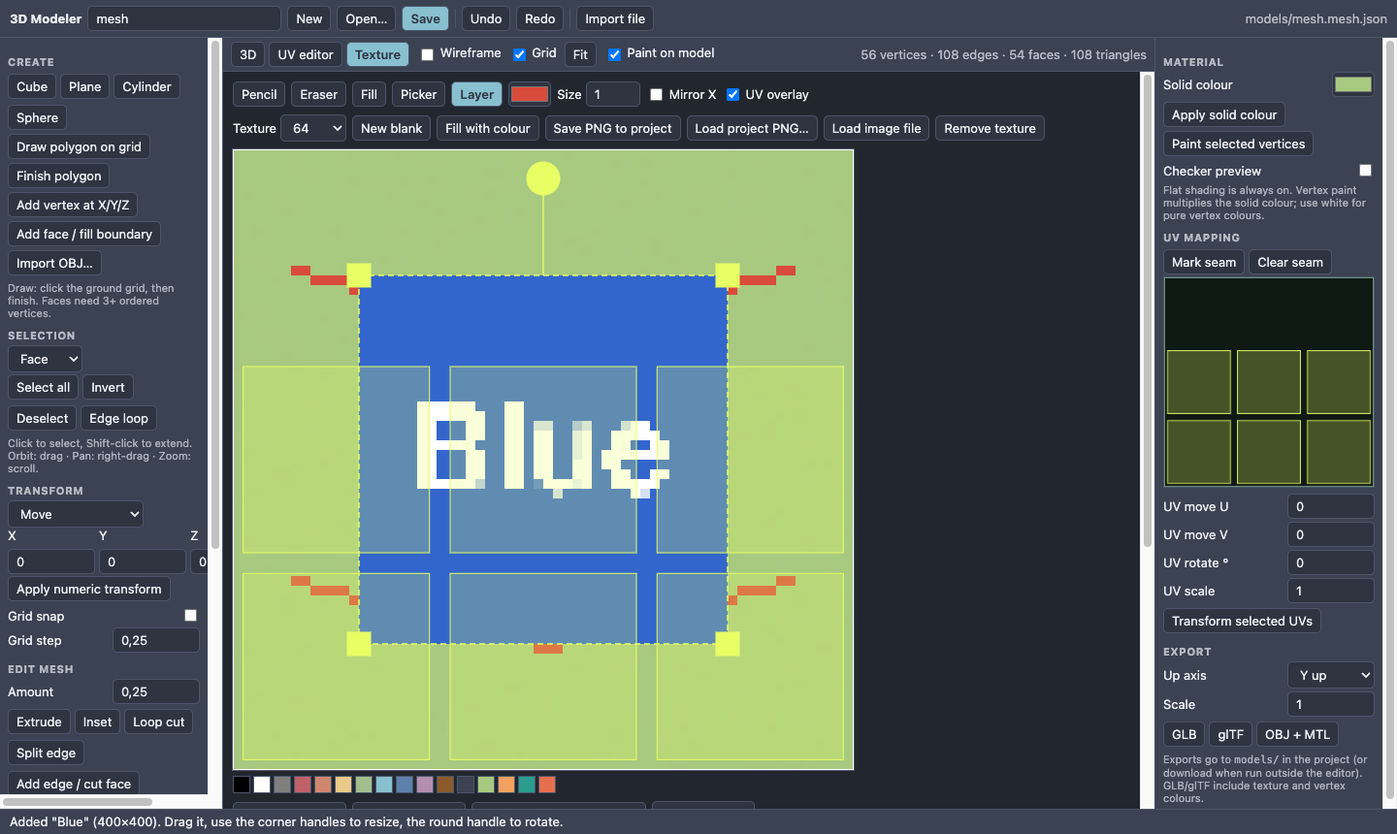
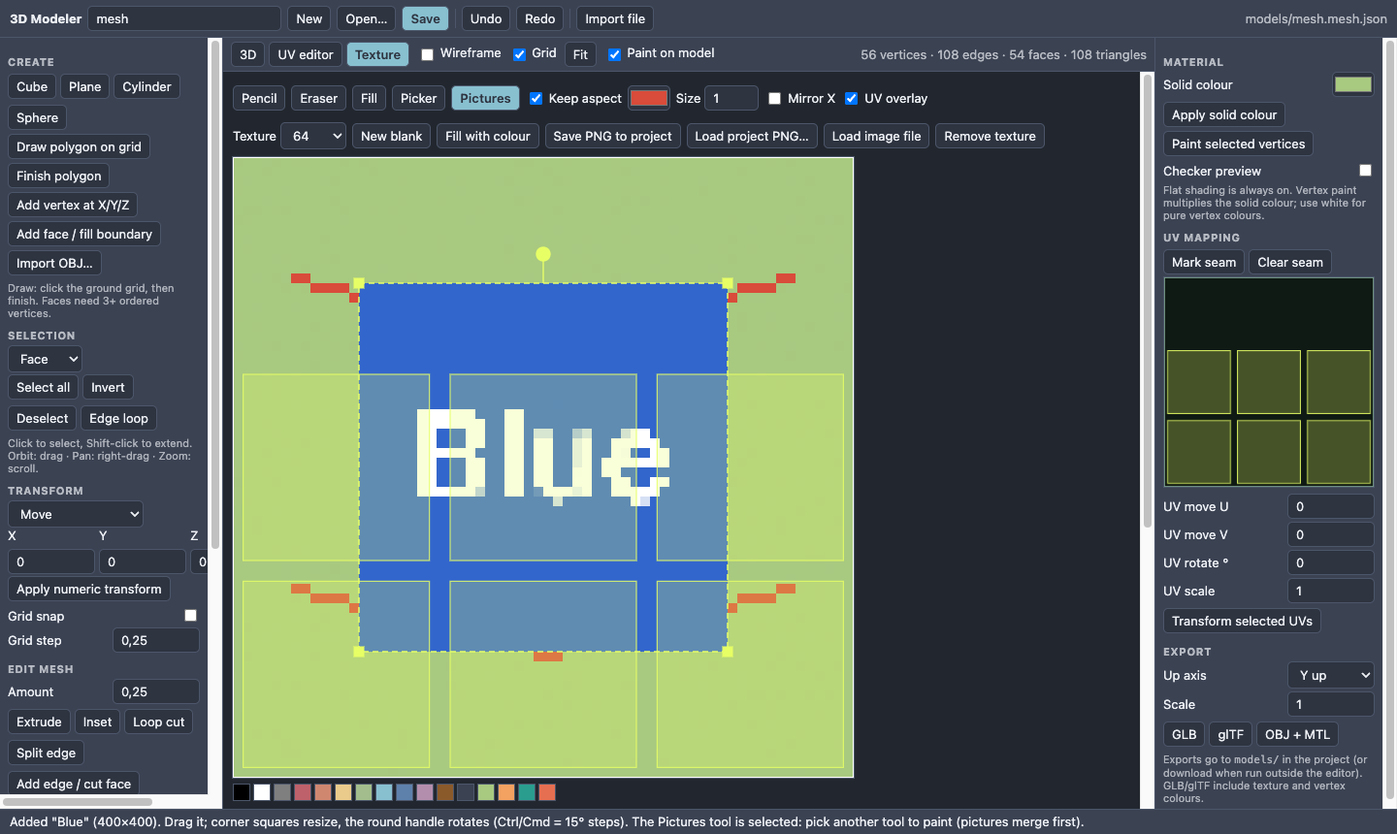
Modeler pictures: correct handles on non-square textures, working resize/rotate, keep-aspect toggle, rotation snaps (Ctrl/Cmd 15, Shift 45, Alt 1), Pictures tool auto-selected, stacking controls (up/down, front/back, Alt+click, shortcuts); docs

diff --git a/editor/modeler/layers.js b/editor/modeler/layers.js
@@ -43,28 +43,33 @@ export function initLayers(api) {
     if (!base) base = copyCanvas(texCanvas);
     const fit = Math.min(1, (texCanvas.width * 0.6) / src.width, (texCanvas.height * 0.6) / src.height), w = Math.max(1, Math.round(src.width * fit)), h = Math.max(1, Math.round(src.height * fit));
     const l = { id: seq++, name, src, cx: texCanvas.width / 2, cy: texCanvas.height / 2, w, h, rot: 0, fx: false, fy: false, alpha: 1, vis: true, smooth: false, cl: 0, ct: 0, cr: 0, cb: 0 };
-    layers.push(l); sel = l.id; compose(); renderPanel();
-    api.status(`Added "${name}" (${src.width}×${src.height}${src.width !== bmp.width ? `, shrunk from ${bmp.width}×${bmp.height}` : ''}). Drag it, use the corner handles to resize, the round handle to rotate.`);
+    layers.push(l); sel = l.id; api.selectTool(); compose(); renderPanel();
+    api.status(`Added "${name}" (${src.width}×${src.height}${src.width !== bmp.width ? `, shrunk from ${bmp.width}×${bmp.height}` : ''}). Drag it; corner squares resize, the round handle rotates (Ctrl/Cmd = 15° steps). The Pictures tool is selected: pick another tool to paint (pictures merge first).`);
   }
   async function addFiles(files) { for (const f of files) { if (!/^image\//.test(f.type)) continue; if (f.size > 12 * 1024 * 1024) throw Error(`${f.name}: pictures over 12 MB are not accepted.`); await addImage(f, f.name.replace(/\.[^.]+$/, '')); } }
 
   // ---------- geometry ----------
   const toLocal = (l, x, y) => { const a = (-l.rot * Math.PI) / 180, dx = x - l.cx, dy = y - l.cy; let lx = dx * Math.cos(a) - dy * Math.sin(a), ly = dx * Math.sin(a) + dy * Math.cos(a); return [lx, ly]; };
   const hit = (l, x, y) => { const [lx, ly] = toLocal(l, x, y); return Math.abs(lx) <= l.w / 2 && Math.abs(ly) <= l.h / 2; };
-  const handleR = () => Math.max(2.5, texCanvas.width / 64);
+  // handles are ~11 px on screen: convert to texture pixels (the view is about 640 px wide)
+  const scr = () => texCanvas.getBoundingClientRect().width || 640, handleR = () => (11 / scr()) * texCanvas.width, rotOffset = () => (30 / (texCanvas.getBoundingClientRect().height || 400)) * texCanvas.height;
   function handleAt(l, x, y) {
-    const [lx, ly] = toLocal(l, x, y), r = handleR() * 1.6;
-    const rotY = -l.h / 2 - handleR() * 4;
-    if (Math.hypot(lx, ly - rotY) <= r) return 'rot';
-    for (const [sx, sy, n] of [[-1, -1, 'tl'], [1, -1, 'tr'], [1, 1, 'br'], [-1, 1, 'bl']]) if (Math.hypot(lx - (sx * l.w) / 2, ly - (sy * l.h) / 2) <= r) return n;
+    const [lx, ly] = toLocal(l, x, y), rx = handleR() * 1.3, ry = (handleR() * texCanvas.height) / texCanvas.width * 1.3;
+    if (Math.abs(lx) <= rx && Math.abs(ly - (-l.h / 2 - rotOffset())) <= ry * 1.2) return 'rot';
+    for (const [sx, sy, n] of [[-1, -1, 'tl'], [1, -1, 'tr'], [1, 1, 'br'], [-1, 1, 'bl']]) if (Math.abs(lx - (sx * l.w) / 2) <= rx && Math.abs(ly - (sy * l.h) / 2) <= ry) return n;
     return null;
   }
+  // Keep aspect (toolbar checkbox); holding Shift while resizing flips it for that drag
+  const lockOn = (e) => !!root.querySelector('#layerlock')?.checked !== !!e?.shiftKey;
   const pos = (e) => { const r = texCanvas.getBoundingClientRect(); return [((e.clientX - r.left) / r.width) * texCanvas.width, ((e.clientY - r.top) / r.height) * texCanvas.height]; };
 
   // ---------- pointer (called by the texture view when the Layer tool is active) ----------
   function pointerDown(e) {
     const [x, y] = pos(e); let l = cur(), h = l ? handleAt(l, x, y) : null;
-    if (!h) { l = [...layers].reverse().find((q) => q.vis && hit(q, x, y)) ?? null; sel = l?.id ?? null; renderPanel(); drawUi(); if (!l) return false; }
+    if (!h) {
+      // topmost picture under the cursor; Alt+click picks the next one underneath (cycles through overlapping pictures)
+      const under = [...layers].reverse().filter((q) => q.vis && hit(q, x, y)); const at = under.findIndex((q) => q.id === sel);
+      l = (e.altKey && at >= 0 ? under[(at + 1) % under.length] : under[0]) ?? null; sel = l?.id ?? null; renderPanel(); drawUi(); if (!l) return false; }
     api.checkpoint();
     drag = { mode: h ?? 'move', l, x0: x, y0: y, cx: l.cx, cy: l.cy, w: l.w, h: l.h, rot: l.rot, d0: Math.hypot(x - l.cx, y - l.cy) || 1, shift: e.shiftKey };
     return true;
@@ -73,8 +78,12 @@ export function initLayers(api) {
     if (!drag) { const [x, y] = pos(e), l = cur(); texCanvas.style.cursor = l && handleAt(l, x, y) ? 'nwse-resize' : [...layers].some((q) => q.vis && hit(q, x, y)) ? 'move' : 'default'; return; }
     const [x, y] = pos(e), l = drag.l;
     if (drag.mode === 'move') { l.cx = Math.round((drag.cx + x - drag.x0) * 2) / 2; l.cy = Math.round((drag.cy + y - drag.y0) * 2) / 2; }
-    else if (drag.mode === 'rot') { let a = (Math.atan2(y - l.cy, x - l.cx) * 180) / Math.PI + 90; if (e.shiftKey) a = Math.round(a / 15) * 15; l.rot = Math.round(a * 10) / 10; }
-    else if (e.shiftKey) { const [lx, ly] = toLocal(l, x, y); l.w = Math.max(1, Math.round(Math.abs(lx) * 2)); l.h = Math.max(1, Math.round(Math.abs(ly) * 2)); } // Shift = free stretch
+    else if (drag.mode === 'rot') {
+      // angle in the stretched view so it follows the mouse exactly; Ctrl/Cmd = 15° steps, Shift = 45°, Alt = 1°
+      const kx = texCanvas.width, ky = texCanvas.height; let a = (Math.atan2((y - l.cy) / ky, (x - l.cx) / kx) * 180) / Math.PI + 90;
+      const st = e.ctrlKey || e.metaKey ? 15 : e.shiftKey ? 45 : e.altKey ? 1 : 0; if (st) a = Math.round(a / st) * st; l.rot = Math.round(a * 10) / 10;
+    }
+    else if (!lockOn(e)) { const [lx, ly] = toLocal(l, x, y); l.w = Math.max(1, Math.round(Math.abs(lx) * 2)); l.h = Math.max(1, Math.round(Math.abs(ly) * 2)); } // free stretch
     else { const k = Math.max(0.02, Math.hypot(x - l.cx, y - l.cy) / drag.d0); l.w = Math.max(1, Math.round(drag.w * k)); l.h = Math.max(1, Math.round(drag.h * k)); }
     compose(); syncProps();
   }
@@ -87,6 +96,7 @@ export function initLayers(api) {
     const step = e.shiftKey ? 8 : 1;
     if (e.key === 'Delete' || e.key === 'Backspace') { e.preventDefault(); remove(); }
     else if ((e.ctrlKey || e.metaKey) && e.key.toLowerCase() === 'd') { e.preventDefault(); duplicate(); }
+    else if ((e.ctrlKey || e.metaKey) && (e.key === ']' || e.key === '[' || e.key === '}' || e.key === '{')) { e.preventDefault(); order(e.shiftKey || e.key === '}' || e.key === '{' ? (e.key === ']' || e.key === '}' ? 'front' : 'back') : e.key === ']' ? 1 : -1); api.commit(); }
     else if (e.key.startsWith('Arrow')) { e.preventDefault(); l.cx += { ArrowLeft: -step, ArrowRight: step }[e.key] ?? 0; l.cy += { ArrowUp: -step, ArrowDown: step }[e.key] ?? 0; compose(); syncProps(); api.commit(); }
   });
 
@@ -102,10 +112,11 @@ export function initLayers(api) {
 
   /** Resize the whole texture; base pixels and layers scale with it. */
   function resizeTexture(size) {
-    if (size === texCanvas.width) return; api.checkpoint(); api.ensureTexture(); const k = size / texCanvas.width, old = base ?? copyCanvas(texCanvas);
+    if (size === texCanvas.width && size === texCanvas.height) return; api.checkpoint(); api.ensureTexture();
+    const kx = size / texCanvas.width, ky = size / texCanvas.height, old = base ?? copyCanvas(texCanvas);
     texCanvas.width = size; texCanvas.height = size; tctx.imageSmoothingEnabled = false; tctx.clearRect(0, 0, size, size); tctx.drawImage(old, 0, 0, size, size);
-    if (layers.length) { base = copyCanvas(texCanvas); for (const l of layers) { l.cx *= k; l.cy *= k; l.w *= k; l.h *= k; } compose(); } else base = null;
-    api.commit(); api.status(`Texture is now ${size}×${size}.`);
+    if (layers.length) { base = copyCanvas(texCanvas); for (const l of layers) { l.cx *= kx; l.cy *= ky; l.w *= kx; l.h *= ky; } compose(); } else base = null;
+    api.commit(); renderPanel(); api.status(`Texture is now ${size}×${size}.`);
   }
   /** Reduce colours (fewer bits per channel) so the PNG compresses much better. bits: 8 = off. */
   function quantize(bits) {
@@ -118,12 +129,16 @@ export function initLayers(api) {
   function drawUi() {
     const c = over.getContext('2d'); c.clearRect(0, 0, over.width, over.height);
     const l = cur(); if (!l || !api.texViewVisible()) return;
-    const k = over.width / texCanvas.width, r = handleR() * k;
-    c.save(); c.translate(l.cx * k, l.cy * k); c.rotate((l.rot * Math.PI) / 180);
-    c.strokeStyle = '#e7ff65'; c.lineWidth = 1.5; c.setLineDash([6, 4]); c.strokeRect((-l.w / 2) * k, (-l.h / 2) * k, l.w * k, l.h * k); c.setLineDash([]);
-    c.fillStyle = '#e7ff65'; for (const [sx, sy] of [[-1, -1], [1, -1], [1, 1], [-1, 1]]) c.fillRect((sx * l.w * k) / 2 - r / 2, (sy * l.h * k) / 2 - r / 2, r, r);
-    const ry = (-l.h / 2) * k - r * 4; c.beginPath(); c.moveTo(0, (-l.h / 2) * k); c.lineTo(0, ry); c.stroke(); c.beginPath(); c.arc(0, ry, r * 0.7, 0, Math.PI * 2); c.fill();
-    c.restore();
+    // the texture is shown stretched over the square view: texture px -> overlay px with separate x / y scales
+    const kx = over.width / texCanvas.width, ky = over.height / texCanvas.height, a = (l.rot * Math.PI) / 180, ca = Math.cos(a), sa = Math.sin(a);
+    const P = (lx, ly) => [(l.cx + lx * ca - ly * sa) * kx, (l.cy + lx * sa + ly * ca) * ky];
+    const corners = [[-1, -1], [1, -1], [1, 1], [-1, 1]].map(([sx, sy]) => P((sx * l.w) / 2, (sy * l.h) / 2));
+    c.strokeStyle = '#e7ff65'; c.lineWidth = 1.5; c.setLineDash([6, 4]); c.beginPath(); corners.forEach(([x, y], i) => c[i ? 'lineTo' : 'moveTo'](x, y)); c.closePath(); c.stroke(); c.setLineDash([]);
+    c.fillStyle = '#e7ff65'; const r = 11;
+    for (const [x, y] of corners) c.fillRect(x - r / 2, y - r / 2, r, r);
+    const top = P(0, -l.h / 2), rot = P(0, -l.h / 2 - rotOffset());
+    c.beginPath(); c.moveTo(...top); c.lineTo(...rot); c.stroke(); c.beginPath(); c.arc(rot[0], rot[1], r * 0.7, 0, Math.PI * 2); c.fill();
+    if (drag?.mode === 'rot') { c.fillStyle = '#000a'; c.fillRect(rot[0] + 12, rot[1] - 10, 46, 18); c.fillStyle = '#e7ff65'; c.font = '12px monospace'; c.fillText(`${Math.round(l.rot)}°`, rot[0] + 17, rot[1] + 4); }
   }
 
   // ---------- panel ----------
@@ -132,10 +147,12 @@ export function initLayers(api) {
     const bar = el('div', { className: 'bar' }, ui);
     const add = el('button', { textContent: '+ Add pictures…', title: 'PNG, JPG or WebP; several at once. You can also drop files on the texture or paste with Ctrl/Cmd+V.' }, bar); add.onclick = () => root.querySelector('#layerfiles').click();
     const proj = el('button', { textContent: '+ From project…', title: 'Pictures of the project (models/ folder)' }, bar); proj.onclick = () => api.pickProjectPng().then((b) => b && addImage(b.blob, b.name)).catch((x) => api.status(x.message));
-    el('button', { textContent: `Merge ${layers.length || ''} layers into texture`, disabled: !layers.length, title: 'Flatten the layers into the one texture (also happens when you paint or save)' }, bar).onclick = () => bake();
+    el('button', { textContent: layers.length ? `Merge ${layers.length} layer${layers.length > 1 ? 's' : ''} into texture` : 'Merge layers', disabled: !layers.length, title: 'Flatten the layers into the one texture (also happens when you paint or save)' }, bar).onclick = () => bake();
     const size = el('select', { id: 'texsize2', title: 'Texture size: all layers are merged into this one square picture' }, bar);
-    for (const s of [16, 32, 64, 128, 256, 512, 1024]) el('option', { value: s, textContent: `${s}×${s}`, selected: s === texCanvas.width }, size);
-    size.onchange = () => resizeTexture(+size.value);
+    const sq = texCanvas.width === texCanvas.height;
+    if (!sq || ![16, 32, 64, 128, 256, 512, 1024].includes(texCanvas.width)) el('option', { value: '', textContent: `${texCanvas.width}×${texCanvas.height}${sq ? '' : ' (not square)'}`, selected: true, disabled: true }, size);
+    for (const s of [16, 32, 64, 128, 256, 512, 1024]) el('option', { value: s, textContent: sq ? `${s}×${s}` : `Make ${s}×${s}`, selected: sq && s === texCanvas.width }, size);
+    size.onchange = () => size.value && resizeTexture(+size.value);
     const comp = el('select', { id: 'texcomp', title: 'Fewer colours = smaller PNG (applied when saving)' }, bar);
     for (const [v, t] of [[8, 'Full colour'], [6, 'Compress: light (6 bit)'], [5, 'Compress: medium (5 bit)'], [4, 'Compress: strong (4 bit)']]) el('option', { value: v, textContent: t, selected: v === api.compression() }, comp);
     comp.onchange = () => api.setCompression(+comp.value);
@@ -146,15 +163,18 @@ export function initLayers(api) {
       const row = el('div', { className: 'layerrow' + (l.id === sel ? ' on' : '') }, list);
       const t = el('canvas', { width: 28, height: 28 }, row); const x = t.getContext('2d'), k = Math.min(28 / l.src.width, 28 / l.src.height); x.drawImage(l.src, 0, 0, l.src.width * k, l.src.height * k);
       el('span', { textContent: l.name }, row);
+      const mv = (t, tip, d) => { const b = el('button', { textContent: t, title: tip }, row); b.onclick = (e) => { e.stopPropagation(); sel = l.id; order(d); api.commit(); }; };
+      mv('▲', 'Bring forward (above the next picture)', 1); mv('▼', 'Send backward (below the next picture)', -1);
       const eye = el('button', { textContent: l.vis ? 'Hide' : 'Show' }, row); eye.onclick = (e) => { e.stopPropagation(); l.vis = !l.vis; compose(); renderPanel(); api.commit(); };
       row.onclick = () => { sel = l.id; renderPanel(); drawUi(); };
     });
     const l = cur(); if (!l) { api.refreshInfo(); return; }
     const p = el('div', { className: 'layerprops' }, ui);
-    const lockLb = el('label', {}, p), lock = el('input', { type: 'checkbox', checked: true }, lockLb); lockLb.append(' keep proportions');
+    const lock = root.querySelector('#layerlock');
     const field = (label, key, min, max, step = 1) => { const lb = el('label', { textContent: label + ' ' }, p); const i = el('input', { type: 'number', value: l[key], step, style: 'width:68px' }, lb); if (min !== undefined) i.min = min; if (max !== undefined) i.max = max; i.dataset.key = key; i.oninput = () => { const v = num(i.value, l[key]); if (key === 'alpha') l.alpha = Math.max(0, Math.min(1, v / 100)); else if (key === 'w' && lock.checked) { const k = Math.max(1, v) / l.w; l.w = Math.max(1, v); l.h = Math.max(1, Math.round(l.h * k)); } else if (key === 'h' && lock.checked) { const k = Math.max(1, v) / l.h; l.h = Math.max(1, v); l.w = Math.max(1, Math.round(l.w * k)); } else l[key] = v; compose(); syncProps(); }; i.onchange = () => api.commit(); return i; };
     field('X', 'cx', undefined, undefined, 0.5); field('Y', 'cy', undefined, undefined, 0.5); field('Width', 'w', 1); field('Height', 'h', 1); field('Rotate °', 'rot', -360, 360, 1); field('Opacity %', 'alpha', 0, 100, 5).value = Math.round(l.alpha * 100);
     for (const [txt, key] of [['Flip horizontal', 'fx'], ['Flip vertical', 'fy'], ['Smooth (off = crisp pixels)', 'smooth']]) { const lb = el('label', {}, p), c = el('input', { type: 'checkbox', checked: l[key] }, lb); lb.append(' ' + txt); c.onchange = () => { l[key] = c.checked; compose(); api.commit(); }; }
+    el('div', { className: 'hint', textContent: 'Stacking: the list shows the top picture first. ▲ ▼ move a picture up/down, To front / To back jump to the ends; Ctrl/Cmd+] and [ do the same; Alt+click on the texture picks the picture underneath.' }, p);
     el('div', { className: 'hint', textContent: 'Cut (crop) the picture, in picture pixels:' }, p);
     for (const [txt, key] of [['Left', 'cl'], ['Top', 'ct'], ['Right', 'cr'], ['Bottom', 'cb']]) field('Cut ' + txt, key, 0, 4096);
     const b = el('div', { className: 'bar' }, p), btn = (t, f, tip = '') => { const e = el('button', { textContent: t, title: tip }, b); e.onclick = () => { try { f(); } catch (x) { api.status(x.message); } }; };

diff --git a/editor/modeler/modeler.js b/editor/modeler/modeler.js
@@ -18,7 +18,7 @@ root.innerHTML=`<header id="top"><strong>3D Modeler</strong><input id="mesh-name
 </aside><div class="mesh-center"><div class="mesh-viewbar"><div class="tabs"><button data-view="3d" class="on">3D</button><button data-view="uv">UV editor</button><button data-view="tex">Texture</button></div><label><input id="mesh-wire" type="checkbox"> Wireframe</label><label><input id="mesh-grid" type="checkbox" checked> Grid</label><button data-action="fit">Fit</button><label title="Left-drag paints the texture straight onto the model (Texture tab colour and tool)"><input id="paint3d" type="checkbox"> Paint on model</label><span id="mesh-count"></span></div>
 <div class="mesh-stage"><div class="mesh-viewport"></div>
 <div class="pane" id="uvpane"><div class="bar"><label>Drag <select id="uvmode"><option value="face">faces</option><option value="point">points</option></select></label><label><input id="uvsnap" type="checkbox"> snap to texel</label><button data-action="uvflipu">Flip U</button><button data-action="uvflipv">Flip V</button><button data-action="uvrot90">Rotate 90°</button><button data-action="uvfit">Fit to 0–1</button><button data-action="island">Select island</button><button data-action="unwrap">Auto unwrap</button><button data-action="pack">Pack</button></div><div class="canvasbox"><canvas id="uvbig" width="640" height="640"></canvas></div><p>Click a face to select (Shift extends), drag to move the selection. “points” moves single UV corners. Selection is shared with the 3D view.</p></div>
-<div class="pane" id="texpane"><div class="bar"><button data-tool="pencil" class="on">Pencil</button><button data-tool="eraser">Eraser</button><button data-tool="fill">Fill</button><button data-tool="pick">Picker</button><button data-tool="layer" title="Move, resize, rotate picture layers">Layer</button><input id="texcolor" type="color" value="#a8c980"><label>Size <input id="texbrush" type="number" value="1" min="1" max="16" style="width:56px"></label><label><input id="texmirror" type="checkbox"> Mirror X</label><label><input id="texuv" type="checkbox" checked> UV overlay</label></div>
+<div class="pane" id="texpane"><div class="bar"><button data-tool="pencil" class="on">Pencil</button><button data-tool="eraser">Eraser</button><button data-tool="fill">Fill</button><button data-tool="pick">Picker</button><button data-tool="layer" title="Select, move, resize and rotate the pictures you added (also: double-click the texture)">Pictures</button><label title="Picture layers: keep the picture proportions while resizing (hold Shift to flip this for one drag)"><input id="layerlock" type="checkbox" checked> Keep aspect</label><input id="texcolor" type="color" value="#a8c980"><label>Size <input id="texbrush" type="number" value="1" min="1" max="16" style="width:56px"></label><label><input id="texmirror" type="checkbox"> Mirror X</label><label><input id="texuv" type="checkbox" checked> UV overlay</label></div>
 <div class="bar"><label>Texture <select id="texsize"><option>16</option><option>32</option><option selected>64</option><option>128</option><option>256</option><option>512</option><option>1024</option></select></label><button data-action="texnew">New blank</button><button data-action="texfill">Fill with colour</button><button data-action="texpng">Save PNG to project</button><button data-action="texpick">Load project PNG…</button><button data-action="texload">Load image file</button><button data-action="cleartexture">Remove texture</button></div>
 <div class="canvasbox"><canvas id="texview" width="64" height="64"></canvas><canvas id="texoverlay" width="640" height="640" style="pointer-events:none"></canvas><canvas id="layerui" width="640" height="640" style="pointer-events:none"></canvas></div><div class="swatches" id="swatches"></div><input type="file" id="layerfiles" accept="image/*" multiple hidden><div id="layers"></div></div></div></div>
 <aside class="mesh-side">
@@ -91,10 +91,12 @@ async function loadTexture(){
  texture?.dispose();texture=null;layersApi?.reset();
  if(model.texture){const im=await loadImage(model.texture);texCanvas.width=im.width;texCanvas.height=im.height;tctx.clearRect(0,0,im.width,im.height);tctx.drawImage(im,0,0);$('#texsize').value=[16,32,64,128,256,512].includes(im.width)?String(im.width):$('#texsize').value;texture=makeTexture();}
  else tctx.clearRect(0,0,texCanvas.width,texCanvas.height);
+ fitBox();
  if(!disposed){$('#mesh-color').value=model.color;rebuild();}
 }
 function ensureTexture(){if(model.texture)return;model.texture=texCanvas.toDataURL('image/png');texture=makeTexture();rebuild();}
-function commitTexture(){model.texture=texCanvas.toDataURL('image/png');if(texture)texture.needsUpdate=true;saveLocal();drawUVs();texInfo();}
+function fitBox(){const w=texCanvas.width,h=texCanvas.height,box=texCanvas.parentElement;box.style.aspectRatio=`${w} / ${h}`;const oh=Math.max(16,Math.round(640*h/w));for(const c of [texOverlay,$('#layerui')])if(c&&(c.width!==640||c.height!==oh)){c.width=640;c.height=oh;}}
+function commitTexture(){fitBox();model.texture=texCanvas.toDataURL('image/png');if(texture)texture.needsUpdate=true;saveLocal();drawUVs();texInfo();}
 function texInfo(){const i=$('#texinfo');if(!i)return;texCanvas.toBlob(b=>{if(!b||!$('#texinfo'))return;const kb=Math.round(b.size/1024);$('#texinfo').textContent=`${texCanvas.width}×${texCanvas.height} · PNG ≈ ${kb>=1024?(kb/1024).toFixed(1)+' MB':kb+' KB'}${kb>2048?' — large: use a smaller size or Compress':''}`;$('#texinfo').style.color=kb>2048?'#ff7b72':'';},'image/png');}
 let layersApi=null,texCompression=8;
 function finalizeTexture(){if(layersApi?.count())layersApi.bake(true);if(texCompression<8&&model.texture){layersApi.quantize(texCompression);commitTexture();}}
@@ -118,8 +120,11 @@ const texPos=e=>{const r=texCanvas.getBoundingClientRect();return [Math.floor((e
 texCanvas.addEventListener('pointerdown',e=>{if(e.button!==0)return;if(tool==='layer'){if(layersApi.pointerDown(e))texCanvas.setPointerCapture(e.pointerId);return;}const [x,y]=texPos(e);if(strokeStart(x,y))texCanvas.setPointerCapture(e.pointerId);});
 texCanvas.addEventListener('pointermove',e=>{if(tool==='layer'){layersApi.pointerMove(e);return;}const [x,y]=texPos(e);strokeMove(x,y,false);});
 texCanvas.addEventListener('pointerup',()=>{if(tool==='layer')layersApi.pointerUp();else strokeEnd();});texCanvas.addEventListener('pointercancel',()=>{if(tool==='layer')layersApi.pointerUp();else strokeEnd();});
-root.querySelectorAll('[data-tool]').forEach(b=>b.onclick=()=>{tool=b.dataset.tool;root.querySelectorAll('[data-tool]').forEach(o=>o.classList.toggle('on',o===b));});
-layersApi=initLayers({texCanvas,tctx,root,touch:()=>{if(texture)texture.needsUpdate=true;},commit:commitTexture,status,checkpoint,ensureTexture,texViewVisible:()=>$('#texpane').classList.contains('show'),color:()=>$('#texcolor').value,compression:()=>texCompression,setCompression:v=>{texCompression=v;status(v<8?'Colours will be reduced when you save (smaller PNG).':'Full colour.');},refreshInfo:texInfo,
+function setTool(t){tool=t;root.querySelectorAll('[data-tool]').forEach(o=>o.classList.toggle('on',o.dataset.tool===t));texCanvas.style.cursor=t==='layer'?'default':'crosshair';}
+root.querySelectorAll('[data-tool]').forEach(b=>b.onclick=()=>setTool(b.dataset.tool));
+// double-click the texture while picture layers exist: switch to the Pictures tool and select the picture under the cursor
+texCanvas.addEventListener('dblclick',e=>{if(tool!=='layer'&&layersApi?.count()){setTool('layer');layersApi.pointerDown(e);layersApi.pointerUp();}});
+layersApi=initLayers({selectTool:()=>setTool('layer'),texCanvas,tctx,root,touch:()=>{if(texture)texture.needsUpdate=true;},commit:commitTexture,status,checkpoint,ensureTexture,texViewVisible:()=>$('#texpane').classList.contains('show'),color:()=>$('#texcolor').value,compression:()=>texCompression,setCompression:v=>{texCompression=v;status(v<8?'Colours will be reduced when you save (smaller PNG).':'Full colour.');},refreshInfo:texInfo,
  uvBounds:()=>{const ids=mode==='face'?[...selection]:[];if(!ids.length)return null;let u0=1,v0=1,u1=0,v1=0;for(const i of ids)for(const [u,v] of model.faces[i].uv){u0=Math.min(u0,u);u1=Math.max(u1,u);v0=Math.min(v0,v);v1=Math.max(v1,v);}return {x:u0*texCanvas.width,y:(1-v1)*texCanvas.height,w:Math.max(1,(u1-u0)*texCanvas.width),h:Math.max(1,(v1-v0)*texCanvas.height)};},
  pickProjectPng:async()=>{const n=await pick('Add picture from models/',await listModels('.png'));if(!n)return null;const r=await fetch('/models/'+encodeURIComponent(n),{cache:'no-store'});if(!r.ok)throw Error('Could not read models/'+n);return {blob:await r.blob(),name:n.replace(/\.png$/,'')};}});
 for(const c of ['#000000','#ffffff','#7f7f7f','#bf616a','#d08770','#ebcb8b','#a3be8c','#88c0d0','#5e81ac','#b48ead','#8b5a2b','#3b4252','#a8c980','#f4a261','#2a9d8f','#e76f51']){const i=document.createElement('i');i.style.background=c;i.onclick=()=>$('#texcolor').value=c;$('#swatches').append(i);}

diff --git a/docs/manual/nord/manual/modeler.html b/docs/manual/nord/manual/modeler.html
@@ -226,10 +226,11 @@
 <p>The model always has <strong>one</strong> texture. <span class="c-ui">Picture layers</span> let you put pictures (PNG, JPG, WebP) on it and move them around like stickers; when you are done they are <strong>merged into that one texture</strong>, so ten pictures never mean ten files or a 100 MB model.</p>
 <figure class="shot"><img src="../../assets/screenshots/mod-10-layers.png" alt="Texture tab with a blue picture layer selected and its handles" loading="lazy"><figcaption>A picture layer on the texture: corner squares resize, the round handle rotates. The layer list and properties are under the texture.</figcaption></figure><ol>
 <li>Open the <span class="c-ui">Texture</span> tab. Press <span class="c-ui">+ Add pictures…</span> (select several files at once), or <strong>drop files</strong> on the texture, or <strong>paste</strong> an image with <span class="c-key">Ctrl/Cmd+V</span>, or <span class="c-ui">+ From project…</span> for PNGs in <code>models/</code>.</li>
-<li>Pick the <span class="c-ui">Layer</span> tool (next to Picker). Click a picture to select it (yellow dashed box). <strong>Drag</strong> to move; drag a <strong>corner square</strong> to resize (<span class="c-key">Shift</span> = stretch freely); drag the <strong>round handle</strong> to rotate (<span class="c-key">Shift</span> = 15° steps). Arrow keys nudge 1 px (<span class="c-key">Shift</span> 8 px), <span class="c-key">Delete</span> removes, <span class="c-key">Ctrl/Cmd+D</span> duplicates.</li>
+<li>The <span class="c-ui">Pictures</span> tool (next to Picker) is selected automatically when you add a picture; to get back to it later press its button, or <strong>double-click</strong> the texture. Click a picture to select it (yellow dashed box). <strong>Drag</strong> to move; drag a <strong>corner square</strong> to resize; drag the <strong>round handle</strong> to rotate. Resizing keeps the proportions while <span class="c-ui">Keep aspect</span> (in the tool bar) is ticked; hold <span class="c-key">Shift</span> to flip that for one drag (or untick it to stretch freely). Rotation snaps: <span class="c-key">Ctrl/Cmd</span> = 15° steps, <span class="c-key">Shift</span> = 45°, <span class="c-key">Alt</span> = 1°. Arrow keys nudge 1 px (<span class="c-key">Shift</span> 8 px), <span class="c-key">Delete</span> removes, <span class="c-key">Ctrl/Cmd+D</span> duplicates.</li>
 <li>Under the texture: the layer list (thumbnail, name, <span class="c-ui">Hide</span>/<span class="c-ui">Show</span>) and the properties of the selected layer:<ul>
 <li><span class="c-ui">X / Y / Width / Height / Rotate / Opacity %</span>, <span class="c-ui">keep proportions</span>, <span class="c-ui">Flip horizontal / vertical</span>, <span class="c-ui">Smooth</span> (off = crisp pixels, on = soft edges).</li>
 <li><strong>Cut:</strong> <span class="c-ui">Cut Left / Top / Right / Bottom</span> crop the picture (in picture pixels). <span class="c-ui">Trim transparent</span> removes empty edges.</li>
+<li><strong>Stacking (which picture is on top):</strong> the list shows the top picture first. Use the small <span class="c-ui">▲</span> / <span class="c-ui">▼</span> on a row to move that picture up or down one step, or the buttons <span class="c-ui">Forward</span>, <span class="c-ui">Backward</span>, <span class="c-ui">To front</span>, <span class="c-ui">To back</span>. Keys: <span class="c-key">Ctrl/Cmd+</span>] forward, <span class="c-key">Ctrl/Cmd+[</span> backward, add <span class="c-key">Shift</span> for front / back. <strong>A picture hidden under another?</strong> Click its row in the list, or <span class="c-key">Alt</span>+click the texture to pick the picture underneath (repeat to cycle).</li>
 <li>Buttons: <span class="c-ui">Duplicate</span>, <span class="c-ui">Delete</span>, <span class="c-ui">Forward</span>, <span class="c-ui">Backward</span>, <span class="c-ui">To front</span>, <span class="c-ui">To back</span>, <span class="c-ui">Center</span>, <span class="c-ui">Fill texture</span>, <span class="c-ui">Original size</span>.</li>
 <li><span class="c-ui">Fit to selected faces</span>: select faces in the 3D or UV tab first, then the picture is placed exactly over their UV area. This is the fastest way to texture a wall with a picture.</li>
 <li><span class="c-ui">Remove painted colour</span>: makes the colour of the colour box transparent in this picture (with a tolerance), handy for white backgrounds.</li>
@@ -240,7 +241,7 @@
 <p><strong>Keeping it small:</strong></p>
 <ul>
 <li>Big pictures are shrunk to 512 px on import; <span class="c-ui">Shrink data</span> resamples a picture to its size on the texture.</li>
-<li>The size menu next to the buttons resizes the whole texture (16 to 1024) and scales everything with it. The line next to it shows the PNG size, in red when it is over 2 MB.</li>
+<li>The size menu next to the buttons resizes the whole texture (16 to 1024) and scales everything with it (a non-square texture, for example one loaded from a photo, is shown with its real proportions and can be made square from the same menu). The line next to it shows the PNG size, in red when it is over 2 MB.</li>
 <li><span class="c-ui">Compress: light / medium / strong</span> reduces colours (6 / 5 / 4 bits per channel) when you save, which makes the PNG much smaller; it suits flat, game-like art.</li>
 <li>Limits: 64 layers at a time; texture up to 1024×1024.</li>
 </ul>

diff --git a/editor/modeler/style.css b/editor/modeler/style.css
@@ -45,3 +45,5 @@ h3{margin:10px 0 4px;font-size:11px;text-transform:uppercase;letter-spacing:.06e
 .layerrow span{flex:1;overflow:hidden;text-overflow:ellipsis;white-space:nowrap}
 .layerprops{display:grid;grid-template-columns:repeat(auto-fill,minmax(150px,1fr));gap:4px 10px;align-items:center;margin-top:6px}
 .layerprops .bar,.layerprops .hint{grid-column:1/-1}
+
+#texpane>.bar:first-child{position:sticky;top:0;z-index:6;background:#22272f;padding:4px 0}

diff --git a/docs/manual-src/32-modeler.md b/docs/manual-src/32-modeler.md
@@ -161,10 +161,11 @@ The model always has **one** texture. @ui[Picture layers] let you put pictures (
 <figure class="shot"><img src="assets/screenshots/mod-10-layers.png" alt="Texture tab with a blue picture layer selected and its handles" loading="lazy"><figcaption>A picture layer on the texture: corner squares resize, the round handle rotates. The layer list and properties are under the texture.</figcaption></figure>
 
 1. Open the @ui[Texture] tab. Press @ui[+ Add pictures…] (select several files at once), or **drop files** on the texture, or **paste** an image with @key[Ctrl/Cmd+V], or @ui[+ From project…] for PNGs in `models/`.
-2. Pick the @ui[Layer] tool (next to Picker). Click a picture to select it (yellow dashed box). **Drag** to move; drag a **corner square** to resize (@key[Shift] = stretch freely); drag the **round handle** to rotate (@key[Shift] = 15° steps). Arrow keys nudge 1 px (@key[Shift] 8 px), @key[Delete] removes, @key[Ctrl/Cmd+D] duplicates.
+2. The @ui[Pictures] tool (next to Picker) is selected automatically when you add a picture; to get back to it later press its button, or **double-click** the texture. Click a picture to select it (yellow dashed box). **Drag** to move; drag a **corner square** to resize; drag the **round handle** to rotate. Resizing keeps the proportions while @ui[Keep aspect] (in the tool bar) is ticked; hold @key[Shift] to flip that for one drag (or untick it to stretch freely). Rotation snaps: @key[Ctrl/Cmd] = 15° steps, @key[Shift] = 45°, @key[Alt] = 1°. Arrow keys nudge 1 px (@key[Shift] 8 px), @key[Delete] removes, @key[Ctrl/Cmd+D] duplicates.
 3. Under the texture: the layer list (thumbnail, name, @ui[Hide]/@ui[Show]) and the properties of the selected layer:
    * @ui[X / Y / Width / Height / Rotate / Opacity %], @ui[keep proportions], @ui[Flip horizontal / vertical], @ui[Smooth] (off = crisp pixels, on = soft edges).
    * **Cut:** @ui[Cut Left / Top / Right / Bottom] crop the picture (in picture pixels). @ui[Trim transparent] removes empty edges.
+   * **Stacking (which picture is on top):** the list shows the top picture first. Use the small @ui[▲] / @ui[▼] on a row to move that picture up or down one step, or the buttons @ui[Forward], @ui[Backward], @ui[To front], @ui[To back]. Keys: @key[Ctrl/Cmd+]] forward, @key[Ctrl/Cmd+[] backward, add @key[Shift] for front / back. **A picture hidden under another?** Click its row in the list, or @key[Alt]+click the texture to pick the picture underneath (repeat to cycle).
    * Buttons: @ui[Duplicate], @ui[Delete], @ui[Forward], @ui[Backward], @ui[To front], @ui[To back], @ui[Center], @ui[Fill texture], @ui[Original size].
    * @ui[Fit to selected faces]: select faces in the 3D or UV tab first, then the picture is placed exactly over their UV area. This is the fastest way to texture a wall with a picture.
    * @ui[Remove painted colour]: makes the colour of the colour box transparent in this picture (with a tolerance), handy for white backgrounds.
@@ -172,7 +173,7 @@ The model always has **one** texture. @ui[Picture layers] let you put pictures (
 
 **Keeping it small:**
 * Big pictures are shrunk to 512 px on import; @ui[Shrink data] resamples a picture to its size on the texture.
-* The size menu next to the buttons resizes the whole texture (16 to 1024) and scales everything with it. The line next to it shows the PNG size, in red when it is over 2 MB.
+* The size menu next to the buttons resizes the whole texture (16 to 1024) and scales everything with it (a non-square texture, for example one loaded from a photo, is shown with its real proportions and can be made square from the same menu). The line next to it shows the PNG size, in red when it is over 2 MB.
 * @ui[Compress: light / medium / strong] reduces colours (6 / 5 / 4 bits per channel) when you save, which makes the PNG much smaller; it suits flat, game-like art.
 * Limits: 64 layers at a time; texture up to 1024×1024.
 
